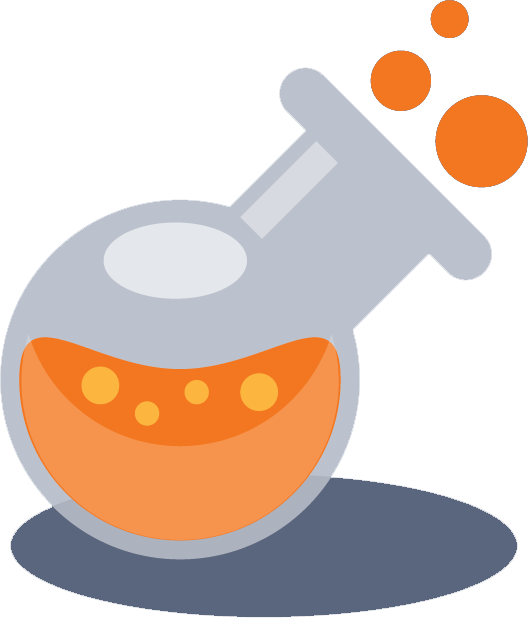
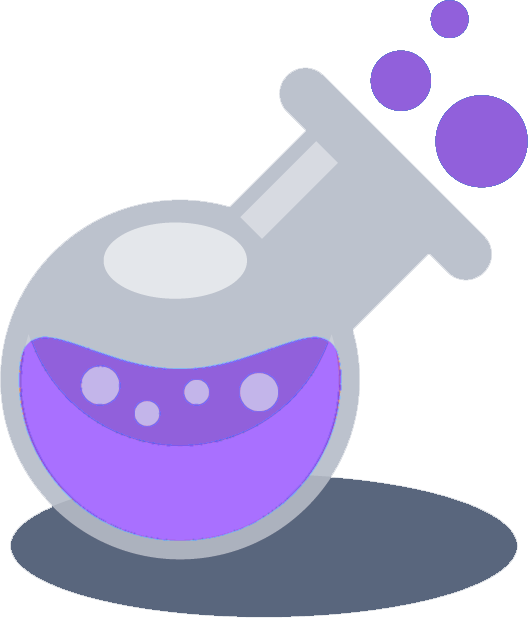
hue-rotate compile img on warning/error, removed extra images

diff --git a/views/index.js b/views/index.js
@@ -318,15 +318,37 @@ window.onload = function() {
         if (result.e) {
             let errorMsg = $("<span></span>").append("[LEXER] => "+result.e.lvl+": "+result.e.msg+"\n")
                 .addClass(statusColor(result.e.lvl));
+            applyFilter($("#compile-img"), result.e.lvl);
+            
             logError("lexer", errorMsg);
             $("#tab-head-two").addClass(statusColor(result.e.lvl));
-        } 
+        } else {
+            applyFilter($("#compile-img"), 'default');
+        }
         logOutput("lexer", "[LEXER] => Completed in: "+time.toFixed(2)+" ms");
 
         //Go back to editor when complete
         editor.focus();
     }
 }
+/*
+Working program, blue or green?
+const greenFilter = "hue-rotate(220deg)";
+const blueFilter = "hue-rotate(310deg)";
+*/
+const filters = {
+    "warning": "hue-rotate(110deg)",
+    "error": "hue-rotate(78deg)",
+    "default": "hue-rotate(0deg)"
+}
+applyFilter = function(element, color) {
+    element.css("filter", filters['default']).delay(1000)
+    .queue(function (next) {
+        $(this).css("filter", filters[color]);
+        next();
+    });
+}
+
 tabOutput = function (target, text) {
     let element = "#"+target+"-text";
     $(element).append(text);

diff --git a/views/script.js b/views/script.js
@@ -86,15 +86,37 @@ window.onload = function() {
         if (result.e) {
             let errorMsg = $("<span></span>").append("[LEXER] => "+result.e.lvl+": "+result.e.msg+"\n")
                 .addClass(statusColor(result.e.lvl));
+            applyFilter($("#compile-img"), result.e.lvl);
+            
             logError("lexer", errorMsg);
             $("#tab-head-two").addClass(statusColor(result.e.lvl));
-        } 
+        } else {
+            applyFilter($("#compile-img"), 'default');
+        }
         logOutput("lexer", "[LEXER] => Completed in: "+time.toFixed(2)+" ms");
 
         //Go back to editor when complete
         editor.focus();
     }
 }
+/*
+Working program, blue or green?
+const greenFilter = "hue-rotate(220deg)";
+const blueFilter = "hue-rotate(310deg)";
+*/
+const filters = {
+    "warning": "hue-rotate(110deg)",
+    "error": "hue-rotate(78deg)",
+    "default": "hue-rotate(0deg)"
+}
+applyFilter = function(element, color) {
+    element.css("filter", filters['default']).delay(1000)
+    .queue(function (next) {
+        $(this).css("filter", filters[color]);
+        next();
+    });
+}
+
 tabOutput = function (target, text) {
     let element = "#"+target+"-text";
     $(element).append(text);

diff --git a/views/style.css b/views/style.css
@@ -18,24 +18,22 @@ html, body {
 }
 #compile-button-span {
     color: #f8f8f2;
-    opacity: 0.7;
+    opacity: .7;
     transition: all .2s ease-in-out;
 }
 #compile-text {
-    transition: all .2s ease-in-out;
-}
-#compile-img {
     transition: all .2s ease-in-out;
 }
 #compile-button-span:hover {
     opacity: 1;
 }
 #compile-button-span:hover {
-    -webkit-filter:drop-shadow(0px -2px 3px #ffb86a);
-    filter:drop-shadow(0px -2px 3px #ffb86a);
+    -webkit-filter:drop-shadow(0px -2px 3px #bd93f98a);
+    filter:drop-shadow(0px -2px 3px #bd93f98a);
 }
 #compile-img{
     z-index: 1000;
+    transition: all 1s ease-out;
     width: 52px;
     height: 62px;
 }
